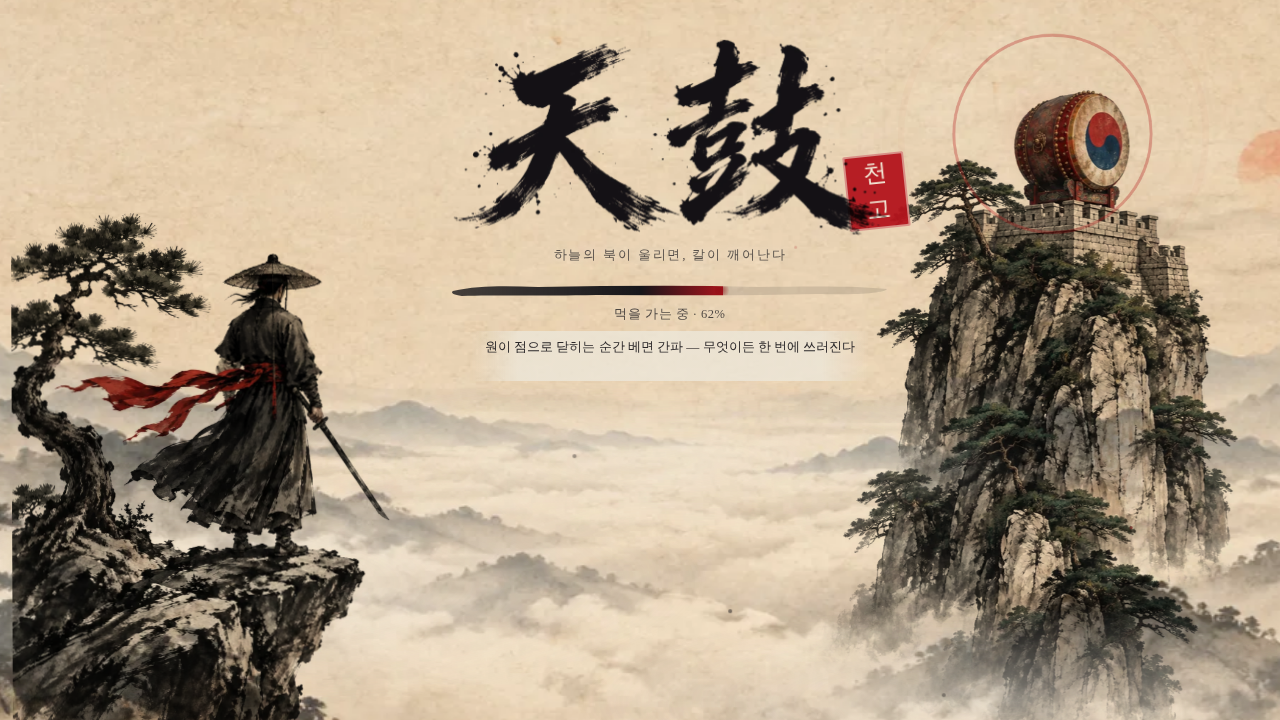
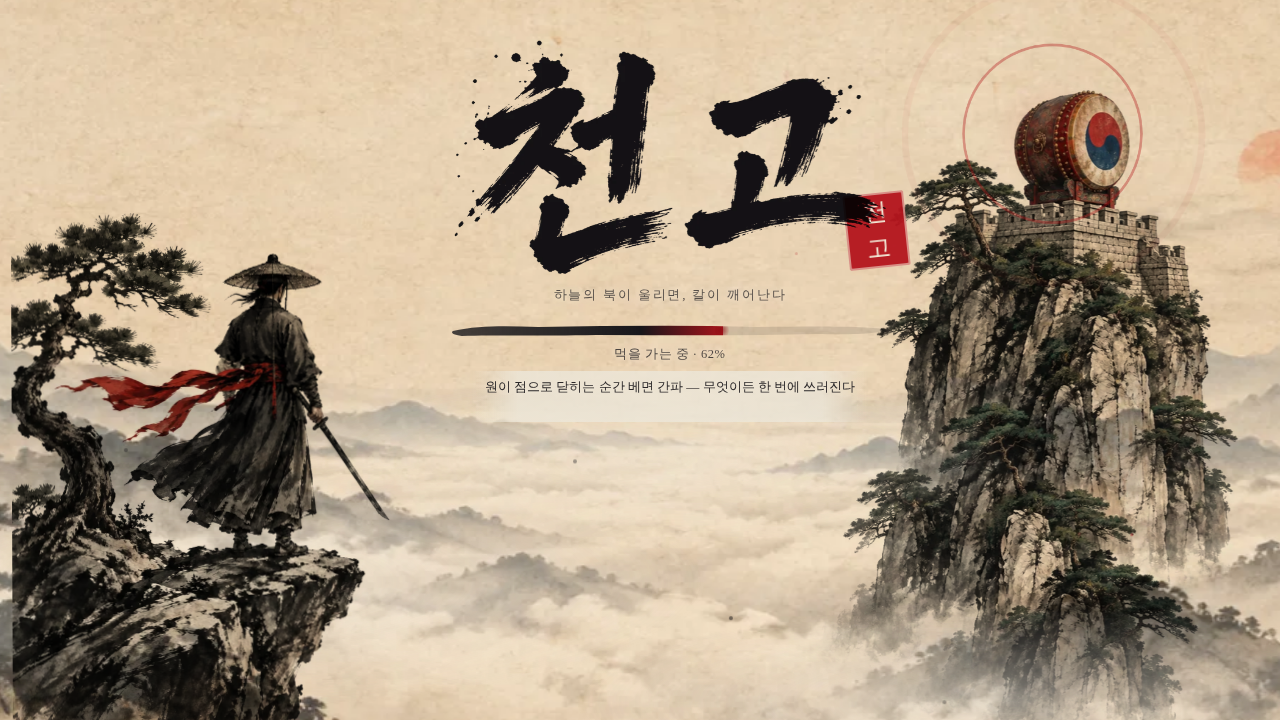
Hub yard painted (stone slabs, grass, rocks toward the viewer) instead of a flat beige band; map props cut by colour-to-alpha so no white rims or pockets remain; loading title written in Hangul 천고
Claude-Session: https://claude.ai/code/session_01Rc1cVb1vkCQfdutHoe7fgf

diff --git a/sw.js b/sw.js
@@ -1,10 +1,10 @@
 // 천고 service worker: network-first for the game files (so updates land on the next launch),
 // cache fallback for offline play, cache-first for Google Fonts.
-const CACHE = "chungo-v148";
+const CACHE = "chungo-v149";
 const ASSETS = "chungo-assets";   // pictures and sound: kept across versions, served at once, refreshed in the background
 const CORE = ["./", "index.html", "manifest.webmanifest",
   "icons/icon-192.png", "icons/icon-512.png", "icons/apple-touch-icon.png"];
-const OPTIONAL = ["assets/far.webp", "assets/mid.webp", "assets/title.webp", "assets/tex-paper.webp", "assets/tex-stone.webp", "assets/tex-giwa.webp", "assets/tex-granite.webp", "assets/tex-slab.webp", "assets/sprites/hero.webp", "assets/sprites/hero.json", "assets/sprites/foes.webp", "assets/sprites/foes.json", "assets/sprites/objects.webp", "assets/sprites/objects.json", "assets/sprites/ui.webp", "assets/sprites/ui.json", "assets/sprites/rogue.webp", "assets/sprites/rogue.json", "assets/sprites/rogue2.webp", "assets/sprites/rogue2.json", "assets/sprites/roguea.webp", "assets/sprites/roguea.json", "assets/sprites/rogue3.webp", "assets/sprites/rogue3.json", "assets/sprites/rogue4.webp", "assets/sprites/rogue4.json", "assets/sprites/foes2.webp", "assets/sprites/foes2.json", "assets/sprites/bossA.webp", "assets/sprites/bossA.json", "assets/sprites/bossB.webp", "assets/sprites/bossB.json", "assets/sprites/bossfx.webp", "assets/sprites/bossfx.json", "assets/sprites/bossC.webp", "assets/sprites/bossC.json", "assets/sprites/bossD.webp", "assets/sprites/bossD.json", "assets/sprites/bossE.webp", "assets/sprites/bossE.json", "assets/sprites/bossF.webp", "assets/sprites/bossF.json", "assets/sprites/hero3.webp", "assets/sprites/hero3.json", "assets/sprites/herofx.webp", "assets/sprites/herofx.json", "assets/sprites/slashfx.webp", "assets/sprites/slashfx.json", "assets/sprites/perkfx.webp", "assets/sprites/perkfx.json", "assets/sprites/weapons.webp", "assets/sprites/weapons.json", "assets/sprites/chars.webp", "assets/sprites/chars.json", "assets/sprites/misc.webp", "assets/sprites/misc.json", "assets/sprites/ic0.webp", "assets/sprites/ic0.json", "assets/sprites/ic1.webp", "assets/sprites/ic1.json", "assets/sprites/ic2.webp", "assets/sprites/ic2.json", "assets/sprites/ic3.webp", "assets/sprites/ic3.json", "assets/sprites/ic4.webp", "assets/sprites/ic4.json", "assets/sprites/ic5.webp", "assets/sprites/ic5.json", "assets/sprites/ic6.webp", "assets/sprites/ic6.json", "assets/sprites/ic7.webp", "assets/sprites/ic7.json", "assets/sprites/ic8.webp", "assets/sprites/ic8.json", "assets/sprites/ic9.webp", "assets/sprites/ic9.json", "assets/sprites/ic10.webp", "assets/sprites/ic10.json", "assets/sprites/ic11.webp", "assets/sprites/ic11.json", "assets/sprites/ic12.webp", "assets/sprites/ic12.json", "assets/sprites/ic13.webp", "assets/sprites/ic13.json", "assets/sprites/ic14.webp", "assets/sprites/ic14.json", "assets/sprites/ic15.webp", "assets/sprites/ic15.json", "assets/sprites/mu.webp", "assets/sprites/mu.json", "assets/sprites/po.webp", "assets/sprites/po.json", "assets/sprites/mfx.webp", "assets/sprites/mfx.json", "assets/sprites/pfx.webp", "assets/sprites/pfx.json", "assets/sprites/vis.webp", "assets/sprites/vis.json", "assets/sprites/guide.webp", "assets/sprites/guide.json", "assets/sprites/mv0.webp", "assets/sprites/mv0.json", "assets/sprites/mv1.webp", "assets/sprites/mv1.json", "assets/sprites/mv2.webp", "assets/sprites/mv2.json", "assets/sprites/arms.webp", "assets/sprites/arms.json", "assets/sprites/bcal.webp", "assets/sprites/bcal.json", "assets/sprites/bvfx.webp", "assets/sprites/bvfx.json", "assets/sprites/bname.webp", "assets/sprites/bname.json", "assets/sprites/mvrun.webp", "assets/sprites/mvrun.json", "assets/sprites/mech.webp", "assets/sprites/mech.json", "assets/sprites/foes3.webp", "assets/sprites/foes3.json", "assets/sprites/kfx.webp", "assets/sprites/kfx.json", "assets/sprites/kring.webp", "assets/sprites/kring.json", "assets/sprites/wfx.webp", "assets/sprites/wfx.json", "assets/sprites/ic16.webp", "assets/sprites/ic16.json", "assets/sprites/grun2.webp", "assets/sprites/grun2.json", "assets/sprites/pet.webp", "assets/sprites/pet.json", "assets/sprites/npc.webp", "assets/sprites/npc.json", "assets/sprites/muz.webp", "assets/sprites/muz.json", "assets/sprites/ogA.webp", "assets/sprites/ogA.json", "assets/sprites/ogB.webp", "assets/sprites/ogB.json", "assets/sprites/hub.webp", "assets/sprites/hub.json", "assets/lore.webp", "assets/hubscene.webp?v=10029700", "assets/ld-bg-wide.webp", "assets/ld-bg-tall.webp", "assets/ld-tower.webp", "assets/ld-hero.webp", "assets/ld-title.webp", "assets/sprites/mapobj.webp", "assets/sprites/mapobj.json", "assets/sprites/md0.webp", "assets/sprites/md0.json", "assets/sprites/md1.webp", "assets/sprites/md1.json", "assets/sprites/md2.webp", "assets/sprites/md2.json", "assets/sprites/md3.webp", "assets/sprites/md3.json", "assets/sprites/md4.webp", "assets/sprites/md4.json"];
+const OPTIONAL = ["assets/far.webp", "assets/mid.webp", "assets/title.webp", "assets/tex-paper.webp", "assets/tex-stone.webp", "assets/tex-giwa.webp", "assets/tex-granite.webp", "assets/tex-slab.webp", "assets/sprites/hero.webp", "assets/sprites/hero.json", "assets/sprites/foes.webp", "assets/sprites/foes.json", "assets/sprites/objects.webp", "assets/sprites/objects.json", "assets/sprites/ui.webp", "assets/sprites/ui.json", "assets/sprites/rogue.webp", "assets/sprites/rogue.json", "assets/sprites/rogue2.webp", "assets/sprites/rogue2.json", "assets/sprites/roguea.webp", "assets/sprites/roguea.json", "assets/sprites/rogue3.webp", "assets/sprites/rogue3.json", "assets/sprites/rogue4.webp", "assets/sprites/rogue4.json", "assets/sprites/foes2.webp", "assets/sprites/foes2.json", "assets/sprites/bossA.webp", "assets/sprites/bossA.json", "assets/sprites/bossB.webp", "assets/sprites/bossB.json", "assets/sprites/bossfx.webp", "assets/sprites/bossfx.json", "assets/sprites/bossC.webp", "assets/sprites/bossC.json", "assets/sprites/bossD.webp", "assets/sprites/bossD.json", "assets/sprites/bossE.webp", "assets/sprites/bossE.json", "assets/sprites/bossF.webp", "assets/sprites/bossF.json", "assets/sprites/hero3.webp", "assets/sprites/hero3.json", "assets/sprites/herofx.webp", "assets/sprites/herofx.json", "assets/sprites/slashfx.webp", "assets/sprites/slashfx.json", "assets/sprites/perkfx.webp", "assets/sprites/perkfx.json", "assets/sprites/weapons.webp", "assets/sprites/weapons.json", "assets/sprites/chars.webp", "assets/sprites/chars.json", "assets/sprites/misc.webp", "assets/sprites/misc.json", "assets/sprites/ic0.webp", "assets/sprites/ic0.json", "assets/sprites/ic1.webp", "assets/sprites/ic1.json", "assets/sprites/ic2.webp", "assets/sprites/ic2.json", "assets/sprites/ic3.webp", "assets/sprites/ic3.json", "assets/sprites/ic4.webp", "assets/sprites/ic4.json", "assets/sprites/ic5.webp", "assets/sprites/ic5.json", "assets/sprites/ic6.webp", "assets/sprites/ic6.json", "assets/sprites/ic7.webp", "assets/sprites/ic7.json", "assets/sprites/ic8.webp", "assets/sprites/ic8.json", "assets/sprites/ic9.webp", "assets/sprites/ic9.json", "assets/sprites/ic10.webp", "assets/sprites/ic10.json", "assets/sprites/ic11.webp", "assets/sprites/ic11.json", "assets/sprites/ic12.webp", "assets/sprites/ic12.json", "assets/sprites/ic13.webp", "assets/sprites/ic13.json", "assets/sprites/ic14.webp", "assets/sprites/ic14.json", "assets/sprites/ic15.webp", "assets/sprites/ic15.json", "assets/sprites/mu.webp", "assets/sprites/mu.json", "assets/sprites/po.webp", "assets/sprites/po.json", "assets/sprites/mfx.webp", "assets/sprites/mfx.json", "assets/sprites/pfx.webp", "assets/sprites/pfx.json", "assets/sprites/vis.webp", "assets/sprites/vis.json", "assets/sprites/guide.webp", "assets/sprites/guide.json", "assets/sprites/mv0.webp", "assets/sprites/mv0.json", "assets/sprites/mv1.webp", "assets/sprites/mv1.json", "assets/sprites/mv2.webp", "assets/sprites/mv2.json", "assets/sprites/arms.webp", "assets/sprites/arms.json", "assets/sprites/bcal.webp", "assets/sprites/bcal.json", "assets/sprites/bvfx.webp", "assets/sprites/bvfx.json", "assets/sprites/bname.webp", "assets/sprites/bname.json", "assets/sprites/mvrun.webp", "assets/sprites/mvrun.json", "assets/sprites/mech.webp", "assets/sprites/mech.json", "assets/sprites/foes3.webp", "assets/sprites/foes3.json", "assets/sprites/kfx.webp", "assets/sprites/kfx.json", "assets/sprites/kring.webp", "assets/sprites/kring.json", "assets/sprites/wfx.webp", "assets/sprites/wfx.json", "assets/sprites/ic16.webp", "assets/sprites/ic16.json", "assets/sprites/grun2.webp", "assets/sprites/grun2.json", "assets/sprites/pet.webp", "assets/sprites/pet.json", "assets/sprites/npc.webp", "assets/sprites/npc.json", "assets/sprites/muz.webp", "assets/sprites/muz.json", "assets/sprites/ogA.webp", "assets/sprites/ogA.json", "assets/sprites/ogB.webp", "assets/sprites/ogB.json", "assets/sprites/hub.webp", "assets/sprites/hub.json", "assets/lore.webp", "assets/hubscene.webp?v=10029700", "assets/ld-bg-wide.webp", "assets/ld-bg-tall.webp", "assets/ld-tower.webp", "assets/ld-hero.webp", "assets/ld-title.webp?v=2", "assets/hubground.webp", "assets/sprites/mapobj.webp", "assets/sprites/mapobj.json", "assets/sprites/md0.webp", "assets/sprites/md0.json", "assets/sprites/md1.webp", "assets/sprites/md1.json", "assets/sprites/md2.webp", "assets/sprites/md2.json", "assets/sprites/md3.webp", "assets/sprites/md3.json", "assets/sprites/md4.webp", "assets/sprites/md4.json"];
 
 self.addEventListener("install", e => {
   e.waitUntil(caches.open(CACHE).then(async c => {

diff --git a/index.html b/index.html
@@ -11,8 +11,8 @@
 <meta name="apple-mobile-web-app-status-bar-style" content="black-translucent">
 <meta name="apple-mobile-web-app-title" content="천고">
 <link rel="manifest" href="manifest.webmanifest">
-<link rel="icon" href="icons/icon-192.png?v=10141510">
-<link rel="apple-touch-icon" href="icons/apple-touch-icon.png?v=10141510">
+<link rel="icon" href="icons/icon-192.png?v=10141600">
+<link rel="apple-touch-icon" href="icons/apple-touch-icon.png?v=10141600">
 <link rel="preconnect" href="https://fonts.googleapis.com">
 <link rel="preconnect" href="https://fonts.gstatic.com" crossorigin>
 <link rel="stylesheet" href="https://fonts.googleapis.com/css2?family=Song+Myung&display=swap">
@@ -20,11 +20,11 @@
 <link rel="stylesheet" href="https://fonts.googleapis.com/css2?family=Nanum+Myeongjo&display=swap&text=%E4%B8%80%E4%B8%89%E4%B8%8A%E4%B8%8B%E4%B8%8D%E4%B8%99%E4%B8%9E%E4%B8%AD%E4%B8%B8%E4%B8%B9%E4%B8%BB%E4%B9%99%E4%B9%9D%E4%BA%82%E4%BA%8C%E4%BA%94%E4%BA%95%E4%BA%AD%E4%BF%83%E4%BF%AE%E5%81%87%E5%81%9C%E5%83%A7%E5%85%89%E5%85%A5%E5%85%A9%E5%85%AD%E5%85%B5%E5%85%B7%E5%86%A4%E5%86%B6%E5%86%B7%E5%87%8C%E5%88%80%E5%88%83%E5%88%86%E5%88%87%E5%88%91%E5%88%9D%E5%88%BA%E5%89%9B%E5%8A%8D%E5%8A%9B%E5%8A%9F%E5%8B%95%E5%8B%9D%E5%8B%A2%E5%8D%83%E5%8D%B4%E5%8D%B7%E5%8E%84%E5%8F%8D%E5%8F%A3%E5%8F%AF%E5%90%8D%E5%90%B8%E5%91%B5%E5%91%BD%E5%9B%9B%E5%9B%9E%E5%9C%B0%E5%9D%90%E5%A0%82%E5%A1%94%E5%A1%9E%E5%A2%83%E5%A2%93%E5%A2%9C%E5%A3%81%E5%A3%87%E5%A3%9E%E5%A4%A7%E5%A4%A9%E5%A4%B7%E5%A5%A7%E5%A5%AA%E5%A5%B3%E5%A6%99%E5%AD%97%E5%AD%A4%E5%AE%88%E5%AE%97%E5%AF%82%E5%AF%9E%E5%B0%84%E5%B0%87%E5%B0%8E%E5%B0%BE%E5%B1%88%E5%B1%B1%E5%B6%BA%E5%B7%AB%E5%B7%AE%E5%B8%B3%E5%B8%B6%E5%B9%95%E5%B9%B3%E5%B9%BB%E5%BA%AB%E5%BC%93%E5%BC%95%E5%BD%88%E5%BD%B1%E5%BE%8B%E5%BE%90%E5%BE%91%E5%BF%83%E5%BF%85%E5%BF%B5%E6%80%92%E6%80%A5%E6%81%AF%E6%87%89%E6%88%90%E6%88%B0%E6%88%BF%E6%89%80%E6%89%87%E6%89%8B%E6%89%93%E6%8B%8D%E6%8B%94%E6%8C%81%E6%8D%AE%E6%8E%A5%E6%8E%A8%E6%8F%9B%E6%93%8A%E6%94%B6%E6%95%A3%E6%96%A4%E6%96%AC%E6%96%B7%E6%97%8B%E6%98%87%E6%98%8E%E6%98%9F%E6%9A%B4%E6%9B%89%E6%9B%B8%E6%9C%88%E6%9C%9B%E6%9C%AC%E6%9D%BF%E6%9E%97%E6%A1%B6%E6%A2%85%E6%A2%AF%E6%A5%AD%E6%A7%8C%E6%A7%8D%E6%A8%93%E6%A9%9F%E6%AD%A2%E6%AD%A3%E6%AD%A5%E6%AD%A6%E6%AD%B8%E6%AD%BB%E6%AE%98%E6%AE%BA%E6%AE%BF%E6%B0%A3%E6%B0%B4%E6%B1%BA%E6%B3%89%E6%B3%95%E6%B4%BE%E6%B5%81%E6%B7%B1%E6%B7%B5%E6%B8%A1%E6%BA%96%E6%BB%85%E6%BB%91%E6%BB%BF%E6%BD%9B%E6%BF%83%E6%BF%A4%E7%81%AB%E7%82%8E%E7%82%B8%E7%83%8F%E7%84%A1%E7%84%B0%E7%85%99%E7%85%A7%E7%86%9F%E7%86%B1%E7%87%92%E7%87%95%E7%88%86%E7%89%8C%E7%8B%82%E7%8B%90%E7%8B%99%E7%8D%A8%E7%8D%AC%E7%8E%84%E7%8E%8B%E7%92%B0%E7%94%95%E7%94%9F%E7%94%B0%E7%94%B2%E7%96%BE%E7%99%BB%E7%99%BC%E7%99%BD%E7%9B%9F%E7%9B%A1%E7%9B%B8%E7%9C%8B%E7%9C%BC%E7%9D%80%E7%9E%AC%E7%9F%AD%E7%9F%B3%E7%A0%B2%E7%A0%B4%E7%A2%91%E7%A5%9E%E7%A5%A0%E7%A7%98%E7%A9%BA%E7%AA%81%E7%AA%9F%E7%AB%B9%E7%AC%88%E7%AC%A6%E7%AC%AC%E7%AD%92%E7%AE%A1%E7%AE%AD%E7%B4%85%E7%B5%82%E7%B5%90%E7%B5%B2%E7%B5%B6%E7%B6%AD%E7%B6%B2%E7%B6%B5%E7%B7%A3%E7%B7%B4%E7%B8%9B%E7%B8%AE%E7%B9%A9%E7%BA%8C%E7%BD%A1%E7%BD%AE%E7%BE%85%E7%BE%A9%E7%BF%94%E7%BF%BC%E8%81%B2%E8%83%8E%E8%84%9A%E8%87%BA%E8%88%9E%E8%8A%B1%E8%90%AC%E8%90%BD%E8%93%84%E8%97%A5%E8%99%8E%E8%99%95%E8%99%9B%E8%99%9F%E8%9E%AD%E8%A1%80%E8%A1%8C%E8%A1%93%E8%A1%9D%E8%A1%A3%E8%A2%96%E8%A3%82%E8%A5%B2%E8%A6%81%E8%A7%92%E8%A7%A3%E8%AA%93%E8%AA%98%E8%AA%BF%E8%AD%B7%E8%B0%B7%E8%B1%B8%E8%B3%AD%E8%B5%A4%E8%B5%B0%E8%B6%8A%E8%B6%B3%E8%B7%9D%E8%B7%A1%E8%B7%AF%E8%B7%B3%E8%B8%8F%E8%BA%8D%E8%BA%AB%E8%BB%8A%E8%BB%8D%E8%BC%95%E8%BC%AA%E8%BF%8E%E8%BF%91%E8%BF%94%E8%BF%BD%E9%80%86%E9%80%90%E9%80%9F%E9%80%A3%E9%81%8E%E9%81%A0%E9%82%84%E9%87%8C%E9%87%8D%E9%87%91%E9%88%B4%E9%8A%80%E9%8A%83%E9%8D%8A%E9%8D%9B%E9%8E%96%E9%8E%AD%E9%8F%A1%E9%90%B5%E9%95%B7%E9%96%80%E9%96%83%E9%96%93%E9%96%A3%E9%97%9C%E9%98%B2%E9%99%8D%E9%99%A3%E9%99%A4%E9%9A%AA%E9%9B%99%E9%9B%A2%E9%9B%A8%E9%9B%B2%E9%9B%B6%E9%9B%B7%E9%9B%BB%E9%9C%86%E9%9C%87%E9%9C%A7%E9%9C%B9%E9%9D%82%E9%9D%88%E9%9D%91%E9%9D%9C%E9%9D%A2%E9%A2%A8%E9%A3%9B%E9%A3%9F%E9%A6%99%E9%A6%AC%E9%A8%B0%E9%AA%A8%E9%AC%BC%E9%AD%82%E9%AD%9A%E9%B3%A5%E9%B3%B6%E9%B5%B2%E9%B6%B4%E9%B7%B9%E9%BB%91%E9%BC%93%E9%BD%8A%E9%BE%8D">
 <link rel="preload" as="image" href="assets/load-wide.webp" media="(orientation: landscape)">
 <link rel="preload" as="image" href="assets/load-tall.webp" media="(orientation: portrait)">
-<link rel="stylesheet" href="style.css?v=10141510">
-<link rel="preload" as="image" href="assets/ld-bg-wide.webp" media="(orientation: landscape)"><link rel="preload" as="image" href="assets/ld-bg-tall.webp" media="(orientation: portrait)"><link rel="preload" as="image" href="assets/ld-title.webp">
+<link rel="stylesheet" href="style.css?v=10141600">
+<link rel="preload" as="image" href="assets/ld-bg-wide.webp" media="(orientation: landscape)"><link rel="preload" as="image" href="assets/ld-bg-tall.webp" media="(orientation: portrait)"><link rel="preload" as="image" href="assets/ld-title.webp?v=2">
 </head>
 <body>
-  <div id="loading"><div class="ld-bg"></div><div class="ld-tower"><img src="assets/ld-tower.webp" alt=""><i class="ld-ring"></i><i class="ld-ring r2"></i><i class="ld-glow"></i></div><div class="ld-mist"></div><div class="ld-hero"><img src="assets/ld-hero.webp" alt=""></div><div class="ld-mist m2"></div><div class="ld-specks"><i></i><i></i><i></i><i></i><i></i><i></i><i></i><i></i><i></i><i></i></div><div class="ld-in"><div class="ld-title"><img src="assets/ld-title.webp" alt="천고 天鼓"><b class="ld-seal"><span>천</span><span>고</span></b></div><div class="ld-read">하늘의 북이 울리면, 칼이 깨어난다</div><div class="ld-bar"><i id="ldBar"></i></div><span id="ldTxt">먹을 가는 중</span><em id="ldTip"></em></div></div>
+  <div id="loading"><div class="ld-bg"></div><div class="ld-tower"><img src="assets/ld-tower.webp" alt=""><i class="ld-ring"></i><i class="ld-ring r2"></i><i class="ld-glow"></i></div><div class="ld-mist"></div><div class="ld-hero"><img src="assets/ld-hero.webp" alt=""></div><div class="ld-mist m2"></div><div class="ld-specks"><i></i><i></i><i></i><i></i><i></i><i></i><i></i><i></i><i></i><i></i></div><div class="ld-in"><div class="ld-title"><img src="assets/ld-title.webp?v=2" alt="천고"><b class="ld-seal"><span>천</span><span>고</span></b></div><div class="ld-read">하늘의 북이 울리면, 칼이 깨어난다</div><div class="ld-bar"><i id="ldBar"></i></div><span id="ldTxt">먹을 가는 중</span><em id="ldTip"></em></div></div>
 <div id="app">
   <canvas id="cv"></canvas>
 
@@ -179,11 +179,11 @@
   (ld.querySelector(".ld-in") || ld).appendChild(b); }
   window.addEventListener("error", function () { setTimeout(rescue, 1500); }); setTimeout(rescue, 25000); })();
 </script>
-<script src="js/tuning.js?v=10141510"></script>
-<script src="js/content.js?v=10141510"></script>
-<script src="js/data.js?v=10141510"></script>
-<script src="js/music.js?v=10141510"></script>
-<script src="js/game.js?v=10141510"></script>
+<script src="js/tuning.js?v=10141600"></script>
+<script src="js/content.js?v=10141600"></script>
+<script src="js/data.js?v=10141600"></script>
+<script src="js/music.js?v=10141600"></script>
+<script src="js/game.js?v=10141600"></script>
 <script>
 if ("serviceWorker" in navigator && (location.protocol === "https:" || location.hostname === "localhost")) {
   window.addEventListener("load", () => navigator.serviceWorker.register("sw.js", { updateViaCache: "none" }).then(r => r.update()).catch(() => {}));

diff --git a/js/game.js b/js/game.js
@@ -2,7 +2,7 @@
 (() => {
 "use strict";
 const T = 32;
-const ASSET_V = "138";   // bump when any picture changes: the service worker then fetches the new json and webp together
+const ASSET_V = "139";   // bump when any picture changes: the service worker then fetches the new json and webp together
 const $ = id => document.getElementById(id);
 const cv = $("cv"); let ctx = cv.getContext("2d", { alpha: false });   // let: the ground is baked by pointing ctx at an offscreen canvas for a moment   // opaque canvas: cheaper to composite on phones
 let W = 0, H = 0, DPR = 1, SCALE = 1;
@@ -4859,6 +4859,7 @@ let hubOn = false, hubNear = null;
 // the 거점 is one painted courtyard: a yard, a stone terrace (축대) with the main hall on it, and five places to go
 const HUB_W = 40, HUB_UP = 10, HUB_K = 40 * 32 / 1344, HUB_Y = 12 * 32 - 490 * (40 * 32 / 1344);   // the painting spans the map exactly   // the painting's ground line (y 490) sits on row 12; its terrace top lands on row 10
 const HUBIMG = new Image(); HUBIMG.src = `assets/hubscene.webp?v=${ASSET_V}`;
+const HUBGROUND = new Image(); HUBGROUND.src = `assets/hubground.webp?v=${ASSET_V}`;
 const HUB_ST = [
   { id: "gate", tx: 4, lx: -27, ty: 12, h: 150, name: "산문", han: "山門", act: "길 떠나기 · 천고탑 · 수련터" },
   { id: "well", tx: 9, lx: -24, ty: 12, h: 80, name: "약수터", han: "藥水", act: "숨 다스리기 · 영물" },
@@ -4900,8 +4901,12 @@ function drawHubScene(pal) { // the painting itself is the place; the yard below
   ctx.fillStyle = E.earth; ctx.fillRect(x - 900, top + h - 2, w + 1800, 1400);
   ctx.fillStyle = E.left; ctx.fillRect(x - 900, top, 902, h); ctx.fillStyle = E.right; ctx.fillRect(x + w - 2, top, 902, h);
   ctx.drawImage(I, x, top, w, h);
-  const fade = (y0, y1, col) => { const gr = ctx.createLinearGradient(0, y0, 0, y1); gr.addColorStop(0, "rgba(0,0,0,0)"); gr.addColorStop(1, col); return gr; };
-  ctx.fillStyle = fade(top + h - 60, top + h, E.earth); ctx.fillRect(x, top + h - 60, w, 61);
+  const G = HUBGROUND; if (G.complete && G.naturalWidth) {   // the yard in front: painted earth, stone slabs, grass and rocks toward the viewer, mirrored tile by tile so no seam shows
+    const gy = top + 492 * HUB_K, gw = w, gh = Math.max(gw * G.naturalHeight / G.naturalWidth, camView.y1 - gy + 8);   // a tall phone screen: the yard reaches its bottom edge
+    for (let k = -1; k <= 1; k++) { const gx = x + k * gw; ctx.save(); ctx.translate(gx + (k % 2 ? gw : 0), gy); if (k % 2) ctx.scale(-1, 1); ctx.drawImage(G, 0, 0, gw, gh); ctx.restore(); }
+    ctx.fillStyle = "rgba(60,54,46,.18)"; ctx.fillRect(x - gw, gy + gh - 2, gw * 3, 1400);   // below the painted yard, earth a shade darker
+  } else { const fade = (y0, y1, col) => { const gr = ctx.createLinearGradient(0, y0, 0, y1); gr.addColorStop(0, "rgba(0,0,0,0)"); gr.addColorStop(1, col); return gr; };
+    ctx.fillStyle = fade(top + h - 60, top + h, E.earth); ctx.fillRect(x, top + h - 60, w, 61); }
 }
 function enterHub() {
   hubOn = true; mode = "tutorial"; Music.menuBgm(true);

diff --git a/_review/r46_hub.js b/_review/r46_hub.js
@@ -1,0 +1,5 @@
+const { open } = require('./lib');
+(async () => { for (const [vp, n, mob] of [[{ width: 1000, height: 462 }, 'w', false], [{ width: 390, height: 844 }, 't', true]]) {
+  const { b, p, errs } = await open({ vp, mobile: mob, run: null });
+  await p.evaluate(() => { const b = [...document.querySelectorAll('button')].find(b => /거점|산중|들어/.test(b.textContent) && b.offsetParent); if (b) b.click(); });
+  await p.waitForTimeout(2500); await p.evaluate(() => __dbg.tp(16, 9)); await p.waitForTimeout(1500); await p.screenshot({ path: `_review/shots/hub2_${n}.png` }); console.log(n, errs); await b.close(); } })();

diff --git a/_review/map_cut.py b/_review/map_cut.py
@@ -17,9 +17,13 @@ def cut(name, maxh=240):
   l3, n3 = ndimage.label(bgish & fg)   # big enclosed white (gaps between legs, under rails) is see-through
   if n3:
     sizes = ndimage.sum(bgish & fg, l3, range(1, n3 + 1)); fg &= ~np.isin(l3, [i + 1 for i, s in enumerate(sizes) if s > 700])
-  alpha = np.clip((ndimage.gaussian_filter(fg.astype(np.float32), .7) - .15) / .7, 0, 1)
-  lum = a.mean(2, keepdims=True); col = a * .84 + lum * .16
-  w = np.clip((lum - 150) / 105, 0, 1); col = col * (1 - w * .8) + (col / 255 * PAPER) * (w * .8); col = col * .96
+  shape = np.clip((ndimage.gaussian_filter(fg.astype(np.float32), .7) - .15) / .7, 0, 1)
+  # colour-to-alpha against the white paper: light paint lets the game's paper through, ink stays solid — no white rims or white pockets left
+  d = (255 - a.min(2)) / 255; cta = np.clip(d / .38, 0, 1)
+  alpha = shape * cta
+  safe = np.maximum(cta, 1e-3)[..., None]
+  col = np.clip((a - 255 * (1 - safe)) / safe, 0, 255)
+  lum = col.mean(2, keepdims=True); col = col * .86 + lum * .14; col = col * .97
   big = ndimage.binary_dilation(alpha > .05, iterations=5); lab, n = ndimage.label(big)
   objs = ndimage.find_objects(lab); areas = ndimage.sum(alpha > .05, lab, range(1, n + 1))
   keep = sorted([i for i in range(n) if areas[i] > 1500], key=lambda i: objs[i][1].start)
